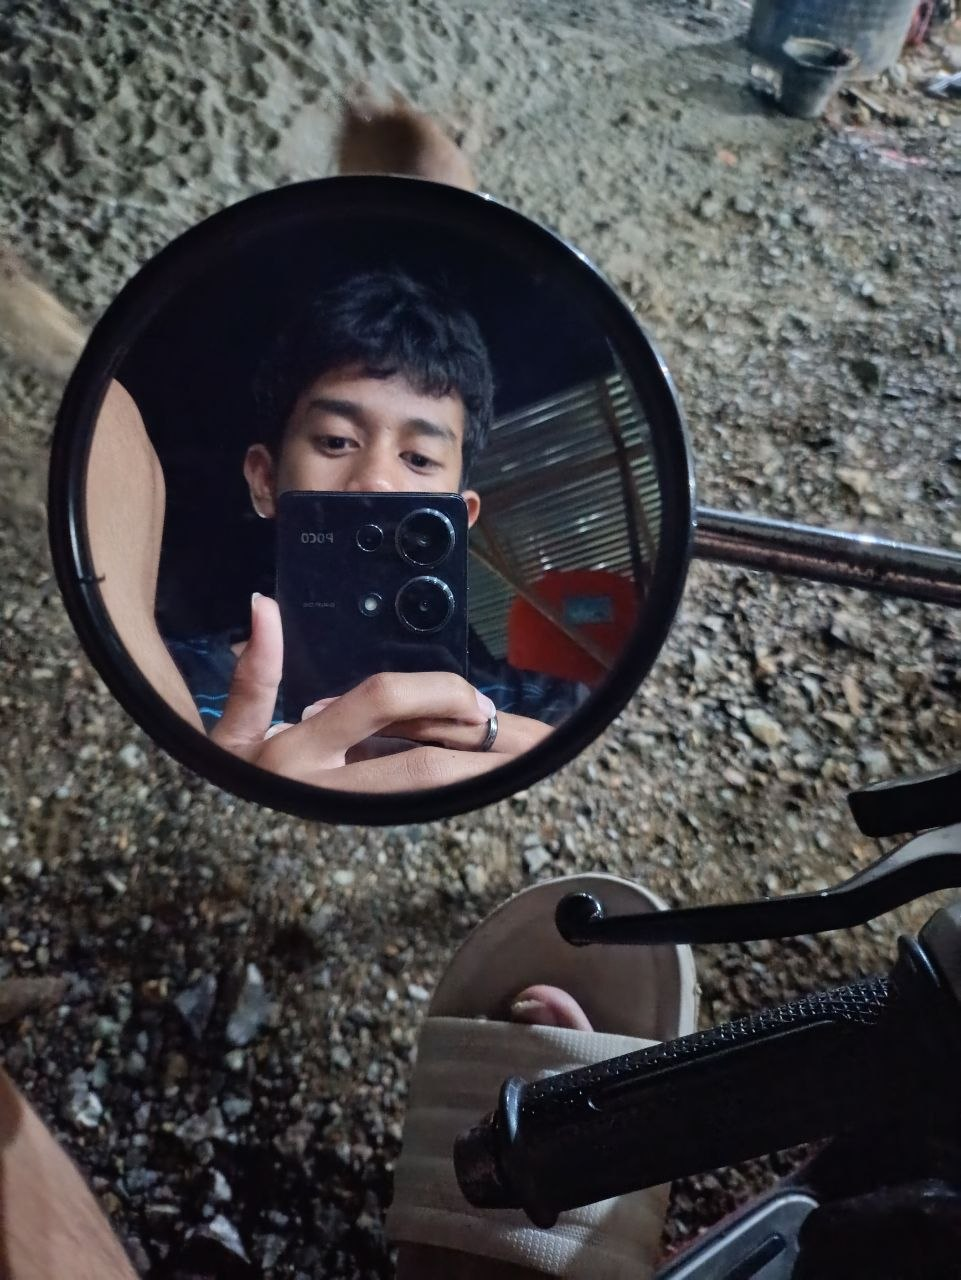
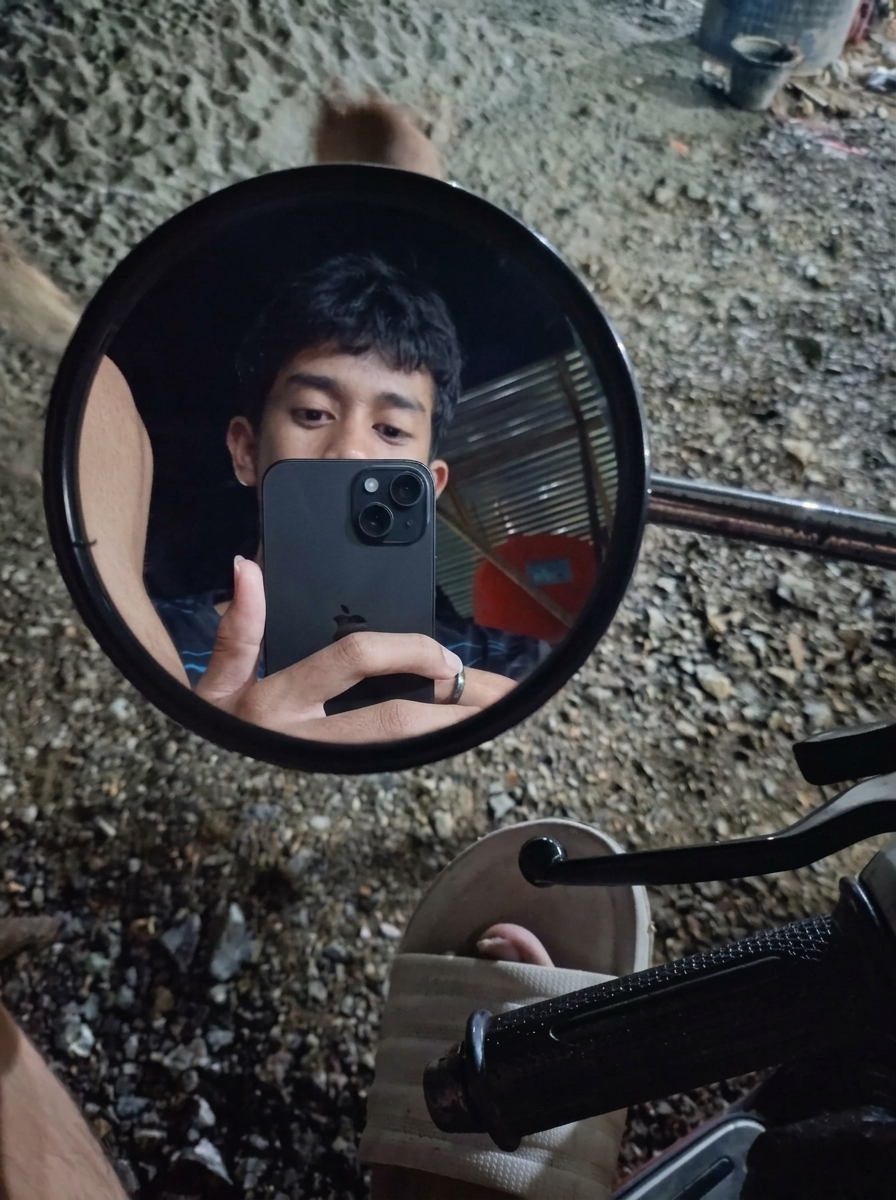
feat: add DramaShortID Telegram Bot showcase and HD assets

diff --git a/lib/data.ts b/lib/data.ts
@@ -199,6 +199,31 @@ export const PROJECTS: Project[] = [
     featured: false,
   },
   {
+    id: "dramashort-bot",
+    slug: "dramashort-telegram-bot",
+    title: "DramaShortID Telegram Bot",
+    subtitle: "Bot Streaming & Auto-Player Drama China Pendek Sub Indo 24/7",
+    category: "Bot Automation",
+    access: "public",
+    description: "Bot Telegram interaktif dan katalog drama China pendek (drachin) vertikal gratis dengan Mini App visual modern, auto-play part instan, dan pengiriman file video MP4 asli langsung ke chat.",
+    problem: "Menonton drama China pendek di platform resmi sering terhalang sistem paywall koin per episode, sedangkan di web agregator sering lambat, buffering, atau dipenuhi iklan popup mengganggu.",
+    solution: "Merancang bot Telegram otomatis yang terhubung ke scraper drama box decrypter NAL unit dengan Telegram Mini App (TMA) mandiri tanpa login, auto-play episode 1 sekali sentuh, dan pengiriman file video MP4 native berkualitas tinggi langsung ke chat.",
+    features: [
+      "Katalog Visual Mini App (TMA) — Antarmuka web interaktif dark mode 2-kolom tanpa perlu login.",
+      "Pengiriman Video Native Otomatis — Video dikirim langsung ke chat Telegram sebagai file video MP4 asli (bukan link).",
+      "One-Tap Auto-Play Part 1 — Sekali klik judul drama langsung menutup tab Mini App dan memutar part pertama.",
+      "IDShort GUI Navigation — Tombol navigasi vertikal: Tonton selanjutnya, Tonton sebelumnya, List part, dan Home.",
+      "Sistem Tiket Lapor Kendala Otomatis — Pelaporan kendala dan request drama diteruskan otomatis ke tim admin di GRUP_BOT Telegram.",
+      "Cloud Streaming 24/7 di VPS — Bot aktif non-stop dengan auto-caching cloud telegram_file_id dan 0 MB beban disk lokal.",
+    ],
+    tags: ["Python", "python-telegram-bot", "Fastify", "Telegram Mini App", "Drachin Scraper", "Pterodactyl VPS"],
+    status: "Aktif",
+    link: "https://t.me/DramaShortID_bot",
+    linkLabel: "Buka Bot di Telegram",
+    image: "/images/projects/dramashort-bot.png",
+    featured: false,
+  },
+  {
     id: "telegram-sentinel",
     slug: "telegram-laptop-sentinel",
     title: "Telegram Laptop Sentinel",

diff --git a/app/(main)/projects/page.tsx b/app/(main)/projects/page.tsx
@@ -5,7 +5,7 @@ import { MaskedText } from "@/components/motion/MaskedText";
 import { ParallaxImage } from "@/components/motion/ParallaxImage";
 import { Card3DTilt } from "@/components/motion/Card3DTilt";
 import Link from "next/link";
-import { ExternalLink, MessageCircle, Lock, ArrowRight, Sparkles } from "lucide-react";
+import { ExternalLink, MessageCircle, Send, Lock, ArrowRight, Sparkles } from "lucide-react";
 import { PROJECTS } from "@/lib/data";
 
 export default function ProjectsPage() {
@@ -161,11 +161,15 @@ export default function ProjectsPage() {
                             className={`inline-flex items-center gap-2 px-4 py-2 rounded-lg text-xs sm:text-sm font-medium transition-all ${
                               project.id === "wa-ai-bot"
                                 ? "bg-emerald-600 hover:bg-emerald-500 text-white"
+                                : project.id === "dramashort-bot"
+                                ? "bg-sky-600 hover:bg-sky-500 text-white"
                                 : "border border-white/10 hover:border-amber-500/40 hover:bg-white/[0.03] text-neutral-300 hover:text-white"
                             }`}
                           >
                             {project.id === "wa-ai-bot" ? (
                               <MessageCircle className="w-4 h-4" />
+                            ) : project.id === "dramashort-bot" ? (
+                              <Send className="w-4 h-4" />
                             ) : (
                               <ExternalLink className="w-4 h-4" />
                             )}

diff --git a/app/(main)/projects/[slug]/page.tsx b/app/(main)/projects/[slug]/page.tsx
@@ -4,7 +4,7 @@ import Link from "next/link";
 import { ParallaxImage } from "@/components/motion/ParallaxImage";
 import { MaskedText } from "@/components/motion/MaskedText";
 import { Card3DTilt } from "@/components/motion/Card3DTilt";
-import { ArrowLeft, ArrowRight, ExternalLink, MessageCircle, Lock, ShieldCheck, CheckCircle2 } from "lucide-react";
+import { ArrowLeft, ArrowRight, ExternalLink, MessageCircle, Send, Lock, ShieldCheck, CheckCircle2 } from "lucide-react";
 import type { Metadata } from "next";
 
 export function generateStaticParams() {
@@ -114,11 +114,15 @@ export default function ProjectDetailPage({ params }: { params: { slug: string }
               className={`inline-flex items-center gap-2 px-6 py-3 rounded-lg text-sm font-semibold transition-all hover:scale-[1.02] active:scale-[0.98] ${
                 project.id === "wa-ai-bot"
                   ? "bg-emerald-600 hover:bg-emerald-500 text-white shadow-lg shadow-emerald-950/40"
+                  : project.id === "dramashort-bot"
+                  ? "bg-sky-600 hover:bg-sky-500 text-white shadow-lg shadow-sky-950/40"
                   : "bg-amber-500 hover:bg-amber-400 text-black shadow-lg shadow-amber-950/40"
               }`}
             >
               {project.id === "wa-ai-bot" ? (
                 <MessageCircle className="w-4 h-4" />
+              ) : project.id === "dramashort-bot" ? (
+                <Send className="w-4 h-4" />
               ) : (
                 <ExternalLink className="w-4 h-4" />
               )}

diff --git a/components/ui/ProjectCard.tsx b/components/ui/ProjectCard.tsx
@@ -3,7 +3,7 @@
 import Image from "next/image";
 import Link from "next/link";
 import { Project } from "@/lib/data";
-import { ExternalLink, Layers, CheckCircle2 } from "lucide-react";
+import { ExternalLink, Layers, CheckCircle2, MessageCircle, Send } from "lucide-react";
 
 interface ProjectCardProps {
   project: Project;
@@ -70,8 +70,14 @@ export function ProjectCard({ project, featured = false }: ProjectCardProps) {
             rel="noopener noreferrer"
             className="inline-flex items-center justify-center gap-2 w-full py-2.5 rounded-xl bg-cyan-500/10 hover:bg-cyan-500/20 border border-cyan-500/30 hover:border-cyan-400/50 text-cyan-300 text-sm font-semibold transition-all duration-200"
           >
-            <span>Buka Website</span>
-            <ExternalLink className="w-4 h-4" />
+            <span>{project.linkLabel || "Buka Website"}</span>
+            {project.id === "wa-ai-bot" ? (
+              <MessageCircle className="w-4 h-4" />
+            ) : project.id === "dramashort-bot" ? (
+              <Send className="w-4 h-4" />
+            ) : (
+              <ExternalLink className="w-4 h-4" />
+            )}
           </Link>
         ) : (
           <button

diff --git a/components/sections/Projects.tsx b/components/sections/Projects.tsx
@@ -54,7 +54,7 @@ export function Projects() {
           </div>
         </div>
 
-        {/* Bot & Automation Projects (Bottom Row - 3 Col) */}
+        {/* Bot & Automation Projects (Bottom Row - 2x2 Grid) */}
         <div>
           <div className="flex items-center gap-2 mb-6">
             <Sparkles className="w-4 h-4 text-cyan-400" />
@@ -63,7 +63,7 @@ export function Projects() {
             </h3>
           </div>
 
-          <div className="grid grid-cols-1 md:grid-cols-2 lg:grid-cols-3 gap-6">
+          <div className="grid grid-cols-1 md:grid-cols-2 gap-6">
             {otherProjects.map((project, idx) => (
               <motion.div
                 key={project.id}
